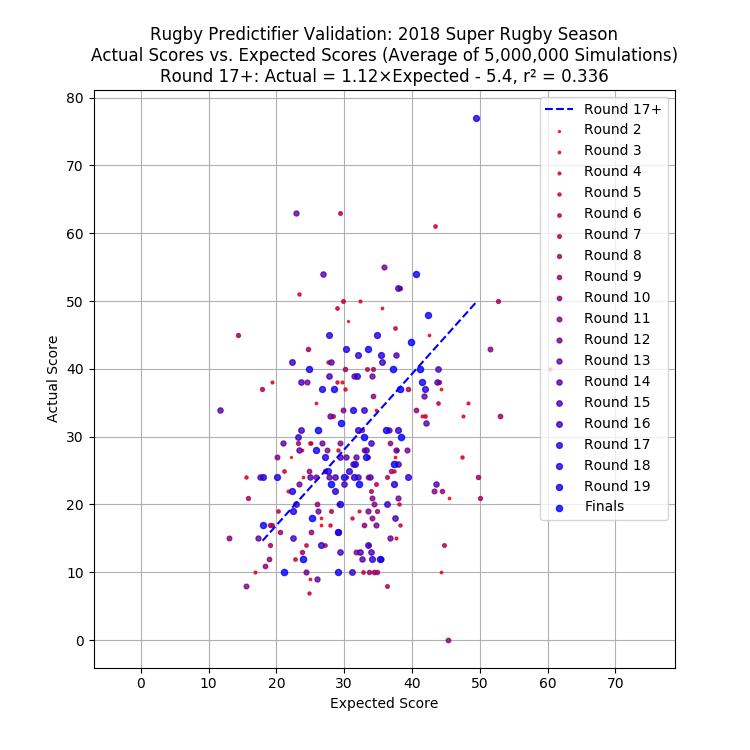
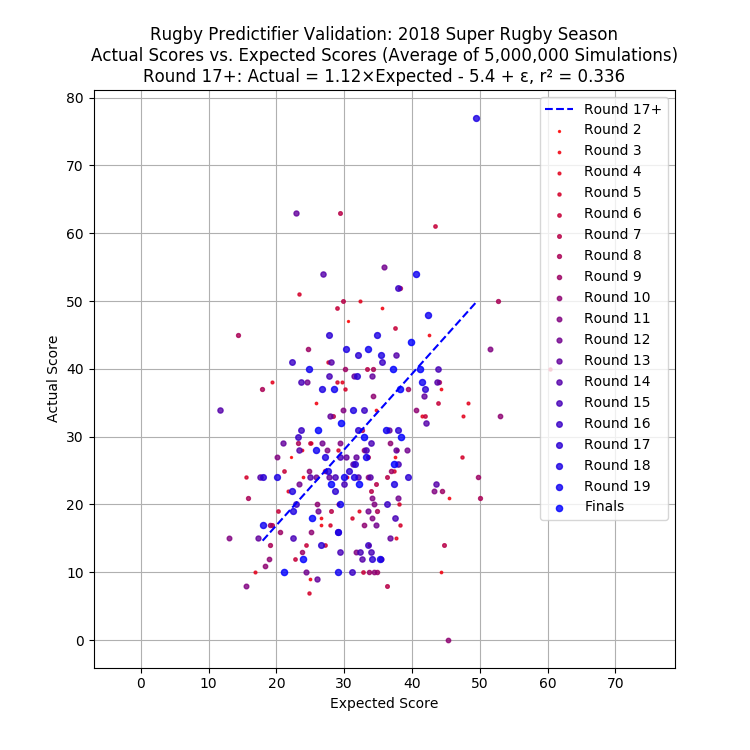
Added epsilon to equation in scatterplot title

Changed region(s): [[0.184, 0.092, 0.828, 0.1227]]

diff --git a/2018SuperRugby/Validation/Validation.py b/2018SuperRugby/Validation/Validation.py
@@ -62,9 +62,9 @@ plt.axis('equal')
 plt.legend(loc = 'upper right')
 title_lines = ['Rugby Predictifier Validation: 2018 Super Rugby Season',
                'Actual Scores vs. Expected Scores (Average of 5,000,000 Simulations)',
-               'Round 17+: Actual = {0}\u00d7Expected - {1}, r\u00b2 = {2}'.format(round(res.params[0], 2),
-                                                                                    abs(round(res.params[1], 2)),
-                                                                                    round(res.rsquared_adj, 3))]
+               'Round 17+: Actual = {0}\u00d7Expected - {1} + \u03b5, r\u00b2 = {2}'.format(round(res.params[0], 2),
+                                                                                            abs(round(res.params[1], 2)),
+                                                                                            round(res.rsquared_adj, 3))]
 plt.title('\n'.join(title_lines))
 ax = plt.gca()
 ax.set_axisbelow(True)
